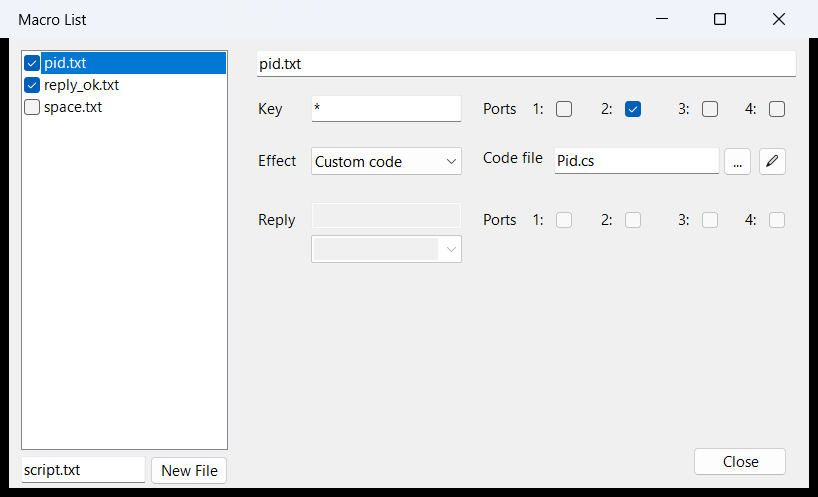
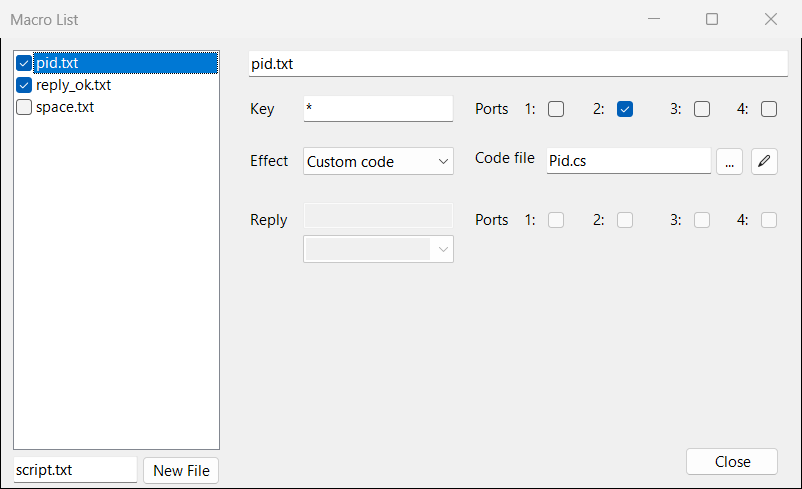
README: new screenshots for logging, log viewer, real-time and merged graphs; fix window borders
All images are now in docs/images (generated from the program windows with example data, cropped to the visible window frame).

diff --git a/README.md b/README.md
@@ -1,7 +1,7 @@
 # SerialPortMacros
 A C# program to talk with up to 4 devices at the same time over **serial ports, Wi-Fi (TCP) or Bluetooth LE**: it shows and logs what they send, plots their values in real time, reacts to their messages with macros (from simple key presses to your own C# code), runs scripted sequences of commands and lets you build custom control panels ("interfaces").
 
-<img width="818" height="534" alt="Main window" src="docs/images/main_window.png" />
+<img width="802" height="526" alt="Main window" src="docs/images/main_window.png" />
 
 [I've also made a short video to show some capabilities of this software](https://www.youtube.com/watch?v=STqCw-Kn7qI)
 
@@ -42,21 +42,21 @@ Each port has a mode selector under its value box:
 | **Wi-Fi** | The program listens as a TCP server on the given port (the box shows "port" instead of "baud"); your device (e.g. an ESP32) connects to the PC's IP address on that port. Two ports cannot use the same TCP port: a free one is assigned automatically. |
 | **BLE** | Bluetooth LE with the Nordic UART Service (the usual "serial over BLE"). Choosing BLE opens a window with the nearby devices; the chosen one appears in the port list (click the list to choose another one). The connect button connects and disconnects; if the link drops, Windows reconnects by itself. |
 
-<img width="578" height="423" alt="Bluetooth LE device list" src="docs/images/ble_devices.png" />
+<img width="562" height="415" alt="Bluetooth LE device list" src="docs/images/ble_devices.png" />
 
 Devices that offer the Nordic UART Service are marked in the UART column and listed first. The service UUIDs are:
 service `6E400001-B5A3-F393-E0A9-E50E24DCCA9E`, RX (written by the PC) `6E400002-…`, TX (notified by the device) `6E400003-…`.
 
 The cog button of each port opens its settings: parity, data bits, stop bits and buffer size (serial mode only), and the **data format** (text or binary, see below).
 
-<img width="244" height="332" alt="Port settings" src="docs/images/port_settings.png" />
+<img width="228" height="324" alt="Port settings" src="docs/images/port_settings.png" />
 
 Whatever the mode, the received data goes through the same path: log, plots, macros and interfaces work the same way on serial, Wi-Fi and BLE.
 
 # Binary data
 By default a port reads text lines. In the port settings you can switch **Data** to **Binary** and describe a binary frame, so a microcontroller can send compact bit fields instead of text. Each frame is decoded into numbers, shown as text (e.g. `n=1520 y=0.8731 u=0.564`) and used exactly like numbers read from text: plots, logs, macros and interfaces.
 
-<img width="658" height="567" alt="Binary frame format" src="docs/images/binary_format.png" />
+<img width="642" height="559" alt="Binary frame format" src="docs/images/binary_format.png" />
 
 Fields are listed in transmission order, separated by spaces: `[name:]type[[n]][*scale][+offset]`
 
@@ -81,7 +81,7 @@ The [ESP32 examples](#esp32-examples) show how to pack the bits on the microcont
 
 # Logging
 
-<img width="797" height="518" alt="image" src="https://github.com/user-attachments/assets/da365469-b167-4387-ab2c-ee84752be0f7" />
+<img width="802" height="526" alt="Main window while logging" src="docs/images/logging.png" />
 
 By checking the log option under a port, you will enable logging for that port. If you do, when using the logging feature, a text file corresponding to that port will be created in the logs folder* in the same directory as the exe file. This file will contain the log of all that was written by that port; if the timestamp option is enabled, the timestamp will also be written (the name of the sender is only visible if the sender is the user in this case).
 
@@ -94,17 +94,17 @@ By checking the log option near the text box, you will also be logging user inpu
 ## Logging data stored on the device
 Some devices record their data and send it all at the end (for example a data logger that stores samples in RAM while it runs). The cog button next to "Start Logging" opens the log options:
 
-<img width="372" height="222" alt="Log options" src="docs/images/log_messages.png" />
+<img width="356" height="214" alt="Log options" src="docs/images/log_messages.png" />
 
 - **Starting message**: sent to the ports when you press "Start Logging" (e.g. to tell the device to start recording);
 - **Ending message**: sent when you press the button again (e.g. "send me the log");
 - **Wait to finish**: instead of closing the log files immediately, the program keeps logging while the device is sending its data, and closes them automatically when nothing has arrived for 1 second.
 
 # Plotting a log
-<img width="800" height="522" alt="image" src="https://github.com/user-attachments/assets/9ab631ef-b574-4e0d-bce3-febafd761e21" />
+<img width="802" height="526" alt="Plot Log at the end option" src="docs/images/logging.png" />
 
 By checking the "Plot Log at the end" option the program will automatically open a dedicated window to plot the log:
-<img width="968" height="485" alt="image" src="https://github.com/user-attachments/assets/d5141603-b343-4c0e-91c2-7b94a993850f" />
+<img width="984" height="512" alt="Log viewer" src="docs/images/log_viewer.png" />
 
 The program takes any line containing a set of numbers spaced with any delimiter (different from ".") from a port and interprets each number in the string as a different vector
 e.g.
@@ -114,7 +114,7 @@ will be interpreted as the values of 3 different plots at the same sample.
 
 The program will automatically decide what format the data is in and will ignore any line different from the main format (so it decides how many plots from the data and then sticks to that), to prevent it from choosing a wrong format due to random messages. The program will check that the chosen format has at least "minimum occurrences" lines with that format; this value can be changed to make sure you exclude known ambiguous lines.
 
-<img width="976" height="485" alt="image" src="https://github.com/user-attachments/assets/e593320d-3521-4ea8-935f-97c64f3cb587" />
+<img width="984" height="512" alt="Log viewer with an element as time base" src="docs/images/log_viewer_timebase.png" />
 
 Each plot will be shown as an "element" in the table on the right; if a plot is checked, it will be displayed.
 In addition, in the table one can set a gain and a low-pass filter cutoff frequency (only available in x-axis auto mode).
@@ -129,17 +129,17 @@ Will consider 51 as the timestamp of the elements 132.50,-76457.00,847.36 in the
 One can also open an old log with the drag and drop feature, which functions identically to the window that opens after a log if the box is checked.
 
 # Plotting in real time
-<img width="1918" height="1015" alt="image" src="https://github.com/user-attachments/assets/535a5f56-c7e3-442d-bfec-a6f98fb20602" />
+<img width="1500" height="960" alt="Real-time graphs" src="docs/images/realtime.png" />
 
 Under each port, you can find a button to open the graphs; the number near the button decides how many plots will be opened. When reading the lines of a port, the software will associate the first number in the line to the first graph, the second number to the second graph, and so on. There are no defined delimiters; just make sure to add something between your numbers that isn't a dot (used for decimals). With a binary port, the decoded fields are plotted in the order they are defined. In the plot window, you can also select how long the time window should be.
 
 ## Merging graphs
 You can also merge two graphs by using the merge button
-<img width="1570" height="514" alt="image" src="https://github.com/user-attachments/assets/e7df99b2-9336-4e63-b991-0d3c69e8a95a" />
+<img width="1320" height="340" alt="Merging two graphs" src="docs/images/merging.png" />
 In the image, the graph on the right is looking to merge. After clicking the merge button on a second graph, the two windows will become invisible, and a new merged window will appear
 
 
-<img width="787" height="513" alt="image" src="https://github.com/user-attachments/assets/bec74c95-a074-4af0-bd73-a33f8f500ea0" />
+<img width="764" height="412" alt="Merged graph" src="docs/images/merged.png" />
 
 You can toggle the legend by clicking the eye icon at the bottom.
 You can show the original windows by clicking the new unmerge button; this will not close the merged window.
@@ -147,7 +147,7 @@ If you close the merged graph, the original graphs will show up again.
 There is no hard limit on the number of graphs you can plot together.
 
 # Macro Menu
-<img width="818" height="497" alt="Macro menu" src="docs/images/macros_custom.png" />
+<img width="802" height="489" alt="Macro menu" src="docs/images/macros_custom.png" />
 
 This program is meant to interact with your electronic projects, the idea is to associate a string sent by your device to an action made by your computer: it can press a key in response to a certain string, send a string to the selected ports in response to a string on the selected ports (to coordinate multiple devices), or run your own C# code.
 
@@ -270,7 +270,7 @@ Click "Select a sequence" to choose the file (from the `sequences` folder), then
 # Interfaces
 An interface is a control panel you draw yourself: buttons, switches, LEDs and numeric fields, made of your own images, that send commands to the ports and show the values they receive.
 
-<img width="814" height="536" alt="Interface" src="docs/images/interface_run.png" />
+<img width="798" height="528" alt="Interface" src="docs/images/interface_run.png" />
 
 The three buttons at the top right of the main window are, from left to right: **edit** an interface, **open** an interface, **new** interface. Interfaces are saved as `.spm` files in the `interfaces` folder; if you associate `.spm` files with the program, double clicking one opens it directly.
 
@@ -299,7 +299,7 @@ In messages, conditions and outputs you can use:
 Conditions compare two values with `>`, `>=`, `<`, `<=`, `==`, for example `{1P4} > 60` or `{enable} == 1`.
 
 ## Editor
-<img width="814" height="536" alt="Interface editor" src="docs/images/interface_editor.png" />
+<img width="798" height="528" alt="Interface editor" src="docs/images/interface_editor.png" />
 
 Drag an element to move it and use the blue square at its bottom right corner to resize it (images keep their proportions; hold Ctrl to stretch them freely). While you move it, the element snaps to:
 - the edges and centers of the other elements (blue guides) and to the edges, margins and center of the window (gray guides);
